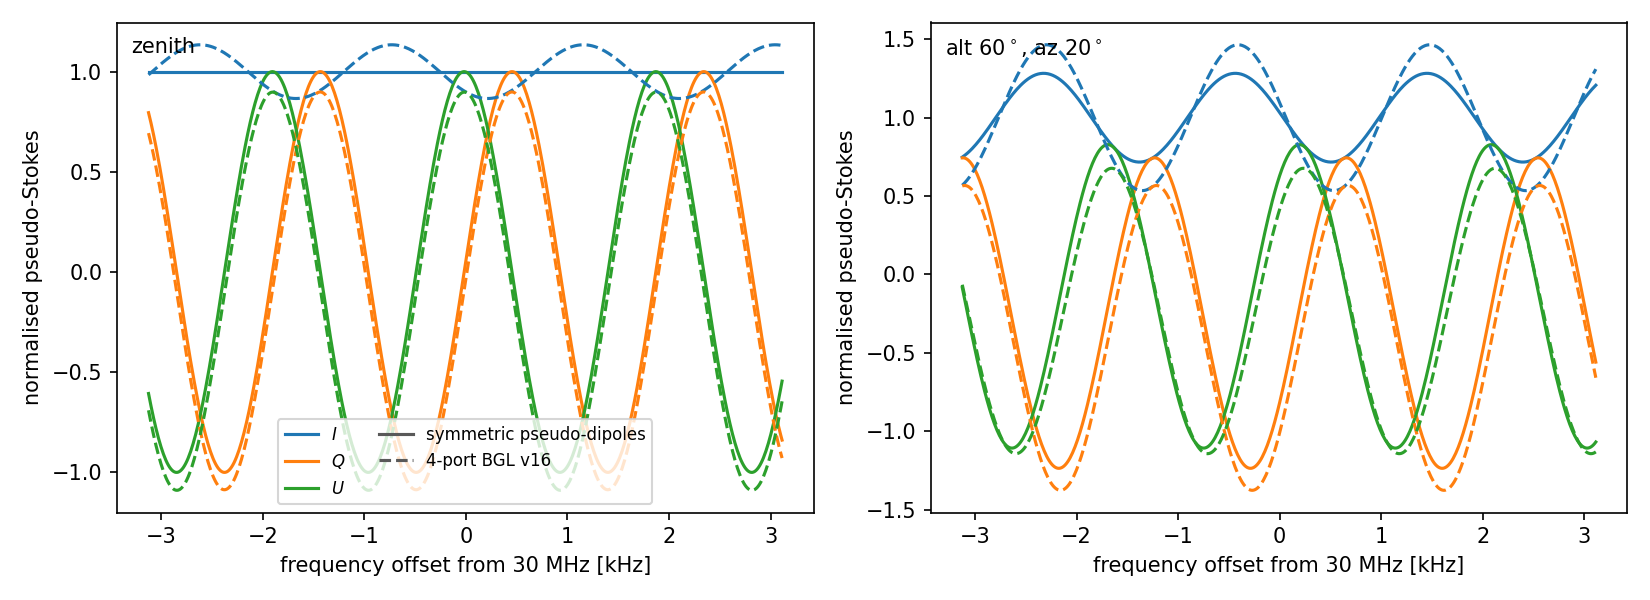
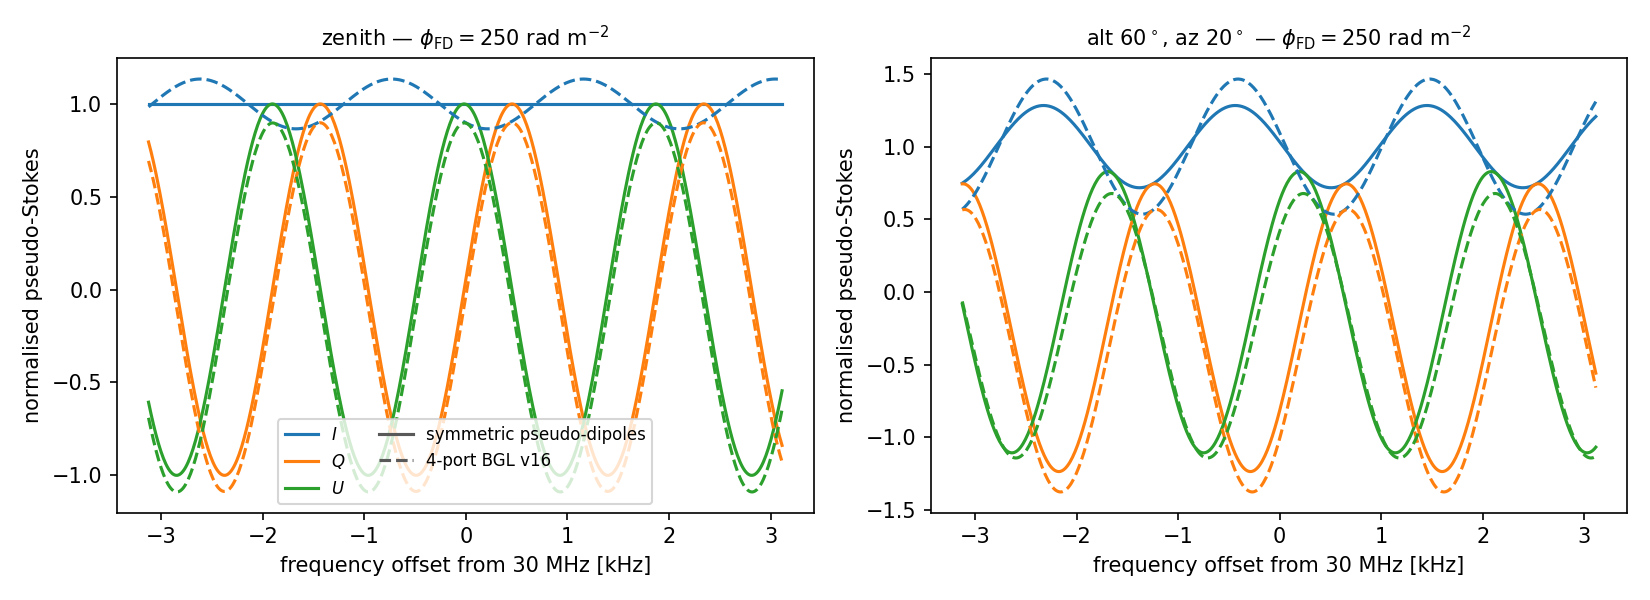
Add a Faraday-off control figure; use panel titles
fig_faraday_spectrum -> fig_spectrum(phi_fd, fname), so the same two
panels can be produced with the screen on and off, and the text inset is
replaced by a panel title carrying the Faraday state.

The control makes the mechanism explicit.  With the screen off the
four-port leakage is a *constant* offset: at zenith the source (1,-1,0)
is observed as (1.093, -1.087, -0.099), the offsets being exactly the
Mueller terms M_IQ = -0.0933, M_QI = -0.0940, M_UI = -0.0958.  With the
screen on, (Q,U) rotate with frequency, so that same static leakage
multiplies a rotating vector and becomes a +/-13.4% spectral
oscillation.

Mueller reciprocity M_0j = M_j0 holds to 0.07%, so the unpolarised
leakage 0.1342, the Stokes I ripple 13.4% and |M_I,pol| = 0.13408 are
one number seen three ways.  The symmetric arm's Mueller matrix is the
identity to 1e-5, hence its flat I.

diff --git a/scripts/compare_main_vs_asbuilt.py b/scripts/compare_main_vs_asbuilt.py
@@ -262,8 +262,8 @@ def fig_leakage_vs_azimuth(main, ab, alt_deg=30.0):
         )
 
 
-def fig_faraday_spectrum(main, ab, phi_fd=250.0, center=30.0, nfine=512):
-    """Polarized source through a Faraday screen, across one parent bin."""
+def fig_spectrum(main, ab, phi_fd, fname, center=30.0, nfine=512):
+    """Polarized source across one parent bin, with or without Faraday."""
     import matplotlib.pyplot as plt
 
     # show a quarter of the 25 kHz parent bin: enough Faraday cycles to
@@ -276,6 +276,8 @@ def fig_faraday_spectrum(main, ab, phi_fd=250.0, center=30.0, nfine=512):
     I = np.ones_like(freqs)
     Q, U = P.real, P.imag
 
+    tag = (rf"$\phi_{{\rm FD}} = {phi_fd:g}$ rad m$^{{-2}}$" if phi_fd
+           else "no Faraday rotation")
     cases = [("zenith", 90.0, 0.0), (r"alt $60^\circ$, az $20^\circ$", 60.0, 20.0)]
     fig, axes = plt.subplots(1, 2, figsize=(11, 4))
     for ax, (label, alt, az) in zip(axes, cases):
@@ -290,7 +292,7 @@ def fig_faraday_spectrum(main, ab, phi_fd=250.0, center=30.0, nfine=512):
             ax.plot(foff, arr, color=c, lw=1.5, ls="--")
         ax.set_xlabel(f"frequency offset from {center:g} MHz [kHz]")
         ax.set_ylabel("normalised pseudo-Stokes")
-        ax.text(0.02, 0.97, label, transform=ax.transAxes, va="top")
+        ax.set_title(f"{label} — {tag}", fontsize=10)
         # pointwise fractional polarization; PSD-ness of J T J^H bounds
         # sqrt(Q^2+U^2+V^2) <= I, so these must not exceed 1.
         p_m = np.hypot(mQ, mU) / mI
@@ -312,8 +314,9 @@ def fig_faraday_spectrum(main, ab, phi_fd=250.0, center=30.0, nfine=512):
     ]
     axes[0].legend(handles=handles, ncol=2, fontsize=8, loc="lower center")
     plt.tight_layout()
-    plt.savefig(FIG_DIR / "cmp_faraday_spectrum.png", dpi=150)
+    plt.savefig(FIG_DIR / fname, dpi=150)
     plt.close()
+    print(f"  -> {fname}")
 
 
 if __name__ == "__main__":
@@ -332,5 +335,7 @@ if __name__ == "__main__":
     print("\n[2] unpolarized source, leakage vs azimuth")
     fig_leakage_vs_azimuth(main, ab)
     print(f"\n[3] polarized source, phi_FD = {args.phi_fd:g} rad/m^2")
-    fig_faraday_spectrum(main, ab, args.phi_fd, args.freq)
+    fig_spectrum(main, ab, args.phi_fd, "cmp_faraday_spectrum.png", args.freq)
+    print("\n[4] same source, Faraday OFF (control)")
+    fig_spectrum(main, ab, 0.0, "cmp_faraday_off.png", args.freq)
     print(f"\nfigures -> {FIG_DIR}")
